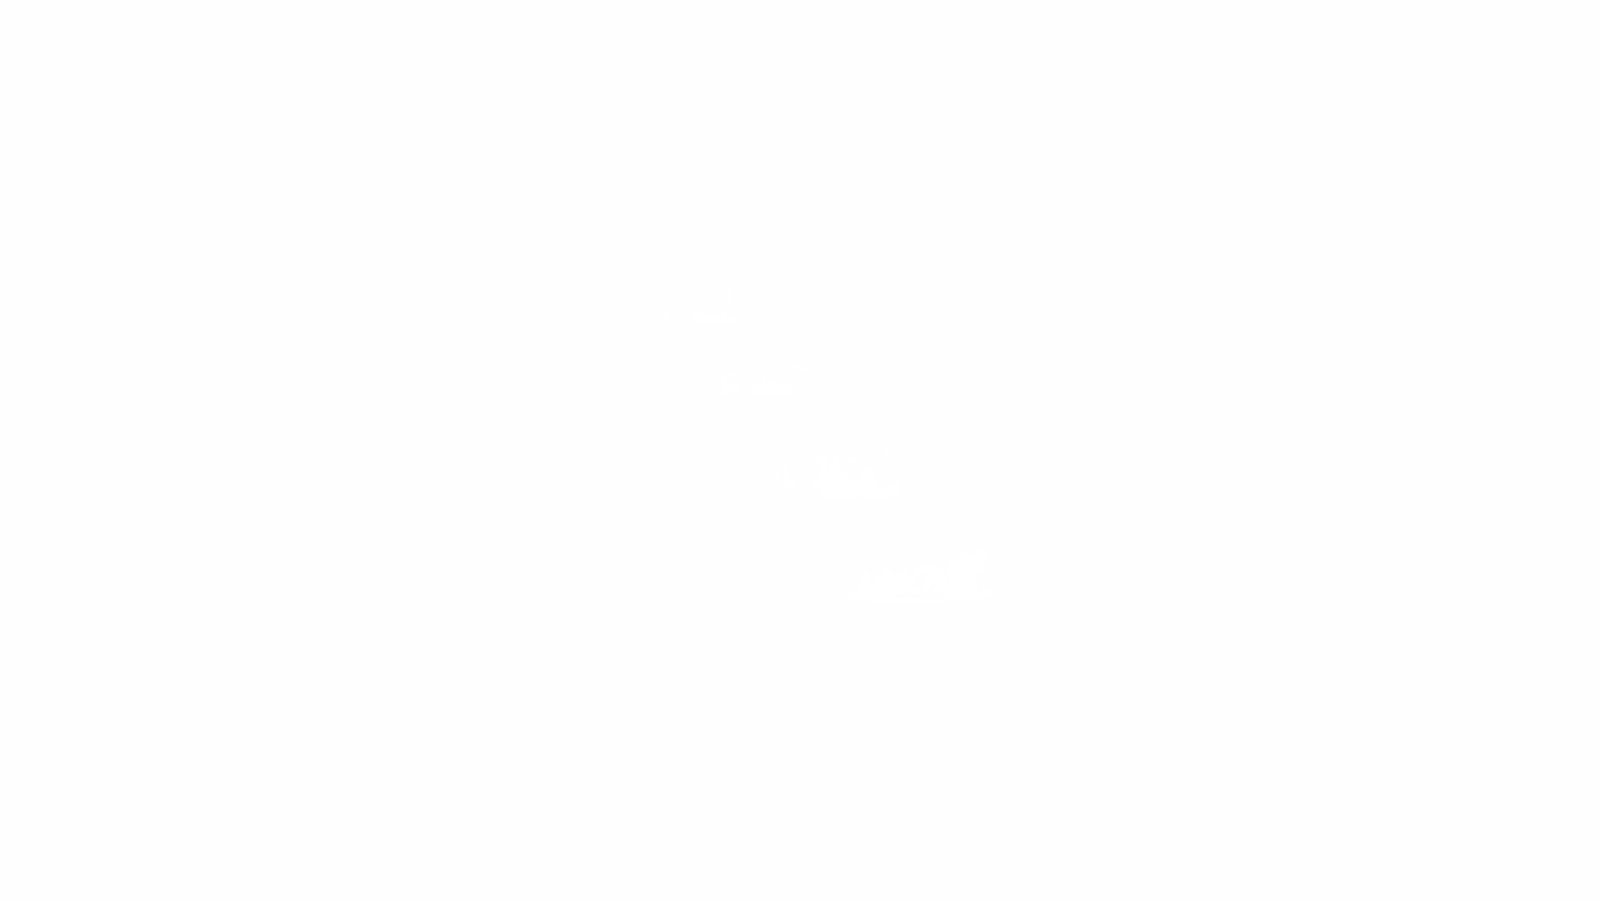
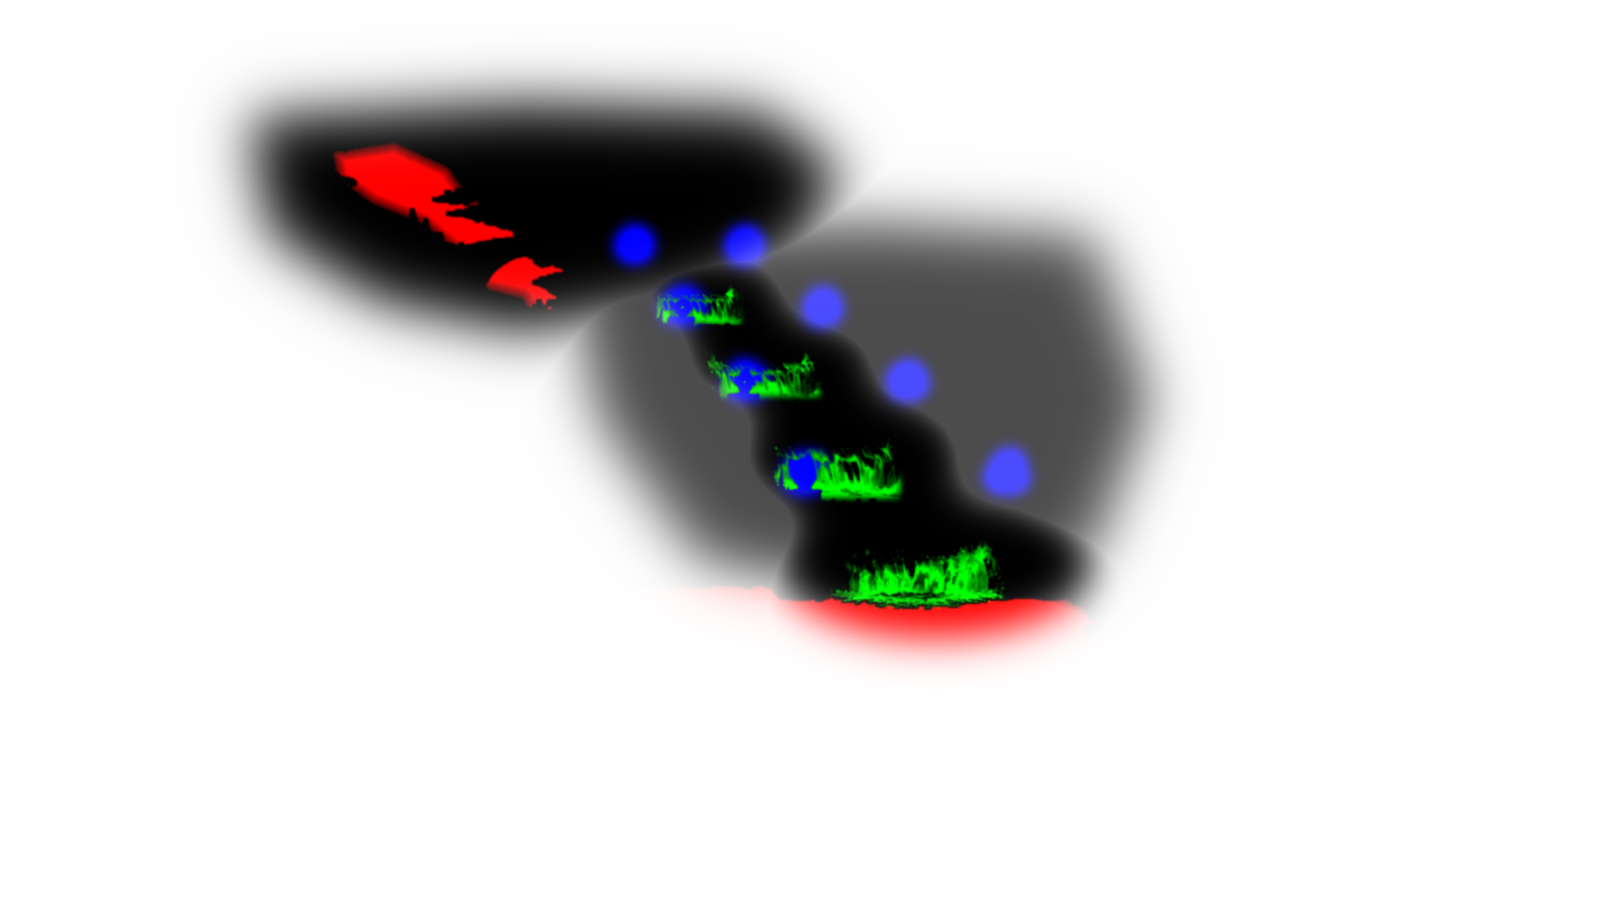
Embercourt town: haze drifts through the lock gorge, spray at the falls
Owner, 2026-11-10: asked how Embercourt's effects compare with Brasshollow's
and Veilmourn's, then: yes, add it.

Measured on the same three-second capture of each town fully built (share of
the scene that swings by more than 8 levels): Brasshollow 5.6%, Veilmourn
7.5%, Embercourt 4.3%. Embercourt moved as hard as the others but only in
spots (falls, lock fires, reflections); it had no wide moving layer like the
slag river or the hillside fog.

- TownStageView: a faction layout's stage_mist gives the drifting fog its
  colour, wind and cover; without it the bell fjord's values apply, which
  are the shader's defaults, so Veilmourn is unchanged.
- lock_gorge_fx_mask.py writes fog thickness into the mask's alpha: the far
  gorge at full thickness, bands across the dark walls around the locks at
  0.7, and spray around each fall.
- Embercourt's layout turns on mist with a pale sunlit gold, a wind to the
  right and slightly up at 26 px/s, cover 0.75. A first pass in the hills'
  own colour at 0.6 thickness could not be seen in the frames.

With it, Embercourt's share is 8.7% fully built and 9.5% part built; mean
brightness holds within 0.04 levels. Core suite 18/18.

Changed region(s): [[0.125, 0.0622, 0.75, 0.7467]]

diff --git a/docs/common-town-building-template.md b/docs/common-town-building-template.md
@@ -275,4 +275,4 @@ A repaint anywhere in a box's window shifts BiRefNet's marks for the whole box, 
 
 The 2026-09 Veilmourn items in `production.json` are inactive.
 
-Embercourt was repainted the same way on 2026-11-10 (owner's choice: concept C, the lock gorge), the first town planned with its Shipyard from the start. Its 24 plots were drawn on a plan sketch first. The first plan looked straight up a river with every block the same size, and the owner rejected its concepts as flat, like the first Brasshollow drafts. The second plan is seen from high on the right wall of a deep gorge: the river winds in from the sunset, drops through a staircase of four locks on a rock step and opens into a harbour basin; far plots are small and near ones large. The army panel covers only basin water, and the Shipyard has its own plot on the basin's near shore. The village backdrop is the concept with the town painted out; that edit moved some ledges, so the plots were fitted to the emptied gorge, not to the concept. The Fort line is a river barrage in the far distance, the tier-6 drakes have a sluice pen in the basin (`matte_passes`, as the Veilmourn sea pens) and the tier-7 colossus has a tall plot on the right slope. The packet is `art/towns/source/generated/overhaul/faction_embercourt/lock_gorge.json`. The stage glows sit on the sunset on the far river and the locks' fire baskets. Its `stage_effects` are water that sways and glints on the basin and the river above the locks, the four lock falls streaming down, the fire baskets on the lock piers flickering (`beacons`: the backdrop's lamp flicker alone, where the mask's blue puts it) and fire light in the buildings at 0.6 (`windows`). At full strength the windows' fire test also caught lantern-lit awnings and the colossus' bronze in this sunset palette. `lock_gorge_fx_mask.py` beside the packet rebuilds the mask: hand-drawn zones, GrabCut for the basin's shores, the river picked by its light, the falls by their white paint and the fires by their flames.
+Embercourt was repainted the same way on 2026-11-10 (owner's choice: concept C, the lock gorge), the first town planned with its Shipyard from the start. Its 24 plots were drawn on a plan sketch first. The first plan looked straight up a river with every block the same size, and the owner rejected its concepts as flat, like the first Brasshollow drafts. The second plan is seen from high on the right wall of a deep gorge: the river winds in from the sunset, drops through a staircase of four locks on a rock step and opens into a harbour basin; far plots are small and near ones large. The army panel covers only basin water, and the Shipyard has its own plot on the basin's near shore. The village backdrop is the concept with the town painted out; that edit moved some ledges, so the plots were fitted to the emptied gorge, not to the concept. The Fort line is a river barrage in the far distance, the tier-6 drakes have a sluice pen in the basin (`matte_passes`, as the Veilmourn sea pens) and the tier-7 colossus has a tall plot on the right slope. The packet is `art/towns/source/generated/overhaul/faction_embercourt/lock_gorge.json`. The stage glows sit on the sunset on the far river and the locks' fire baskets. Its `stage_effects` are water that sways and glints on the basin and the river above the locks, the four lock falls streaming down, the fire baskets on the lock piers flickering (`beacons`: the backdrop's lamp flicker alone, where the mask's blue puts it) and fire light in the buildings at 0.6 (`windows`). At full strength the windows' fire test also caught lantern-lit awnings and the colossus' bronze in this sunset palette. `lock_gorge_fx_mask.py` beside the packet rebuilds the mask: hand-drawn zones, GrabCut for the basin's shores, the river picked by its light, the falls by their white paint and the fires by their flames. Measured beside the other two towns, those effects moved only in spots, so the gorge also has `mist`: pale gold haze bands that drift through the far gorge and across the locks, and spray around each fall, where the mask's alpha puts them. The layout's `stage_mist` gives the drifting fog its colour, wind and cover for this painting; without it a town gets the bell fjord's blue-grey fog. A first pass in the hills' own colour at 0.6 thickness could not be seen.

diff --git a/PLAN.md b/PLAN.md
@@ -50,6 +50,7 @@ None open.
 
 ## Open work
 
+- `town-stage-haze-embercourt-20261110` (in progress): Measured beside Brasshollow and Veilmourn, Embercourt's effects moved only in spots. Add a gorge-wide layer: the mist effect with a per-town colour, wind and cover (layout stage_mist), haze zones in the far gorge and around the locks and spray at the falls in the mask's alpha. Owner, 2026-11-10: yes, add it. See `docs/common-town-building-template.md`.
 - `native-rules-phase7-14-campaign-20261023` (pending): port the campaign runtime to C++, together with the campaign rework (D-f). See `docs/native-rules-engine-transition.md`.
 - `content-authored-scenarios-obsolete-20261005` (paused): hold on all authored maps, scenarios and campaigns until the owner selects their rework. See `docs/authored-scenarios-obsolete.md`.
 - `playable-alpha-scenario-set-10184` (paused): Phase 5 umbrella: several scenarios and skirmish setups played end to end, with save/load, outcomes, AI pressure and a viable economy. Waits for the authored-content rework.
